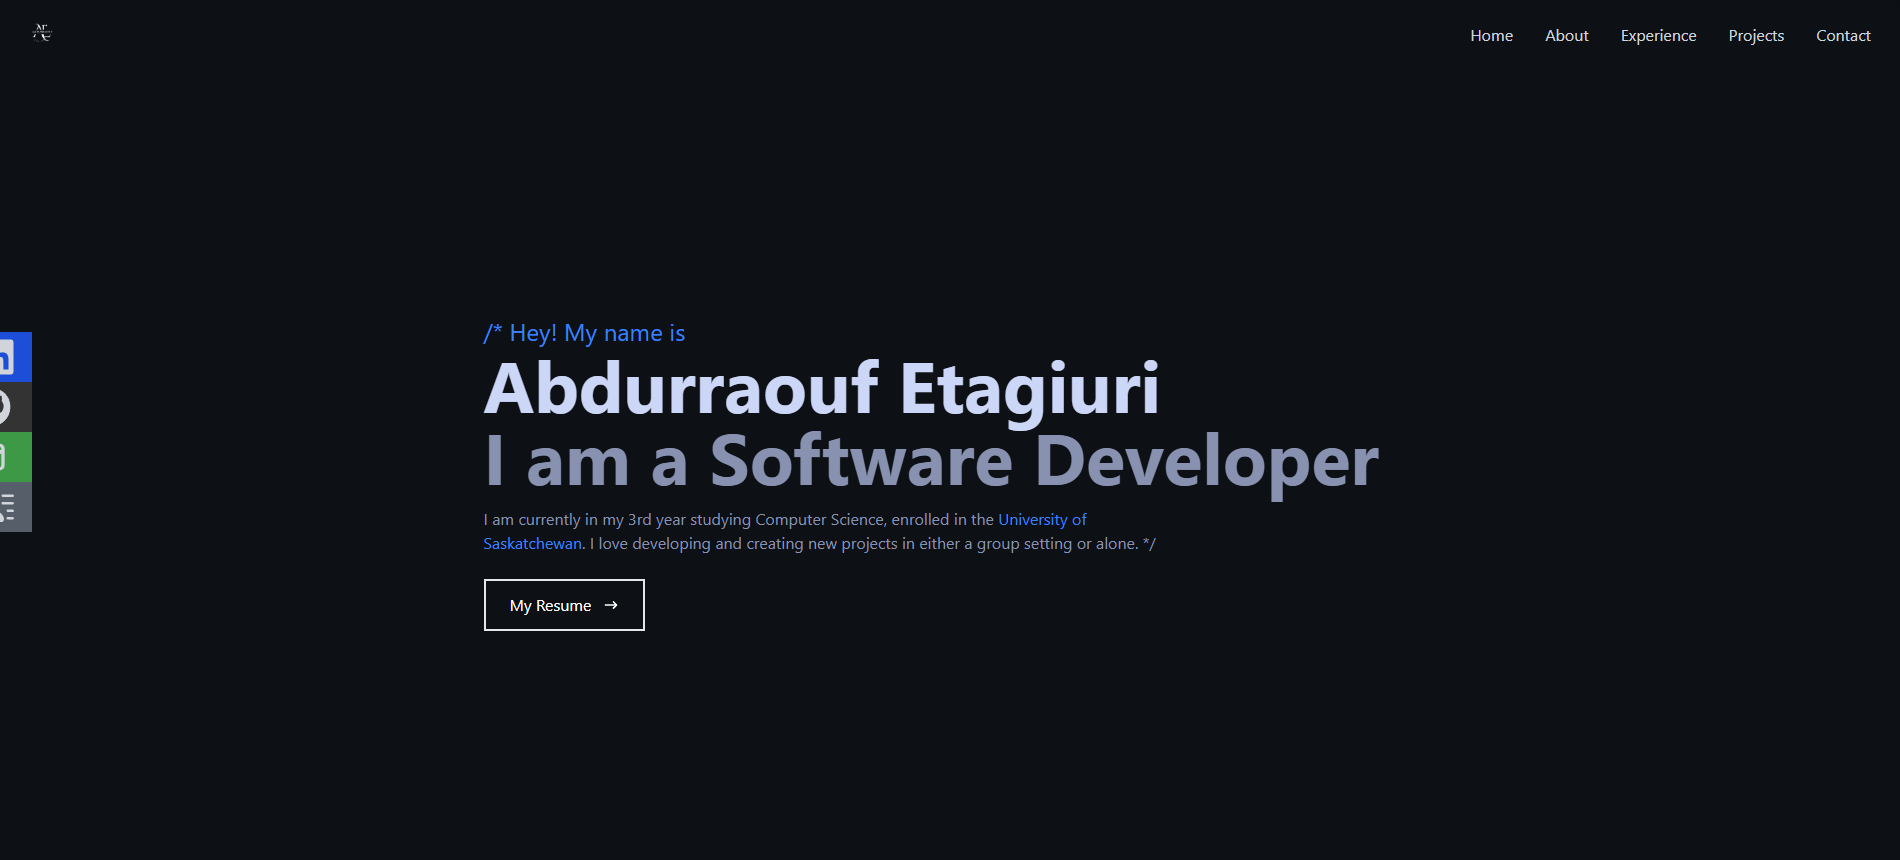
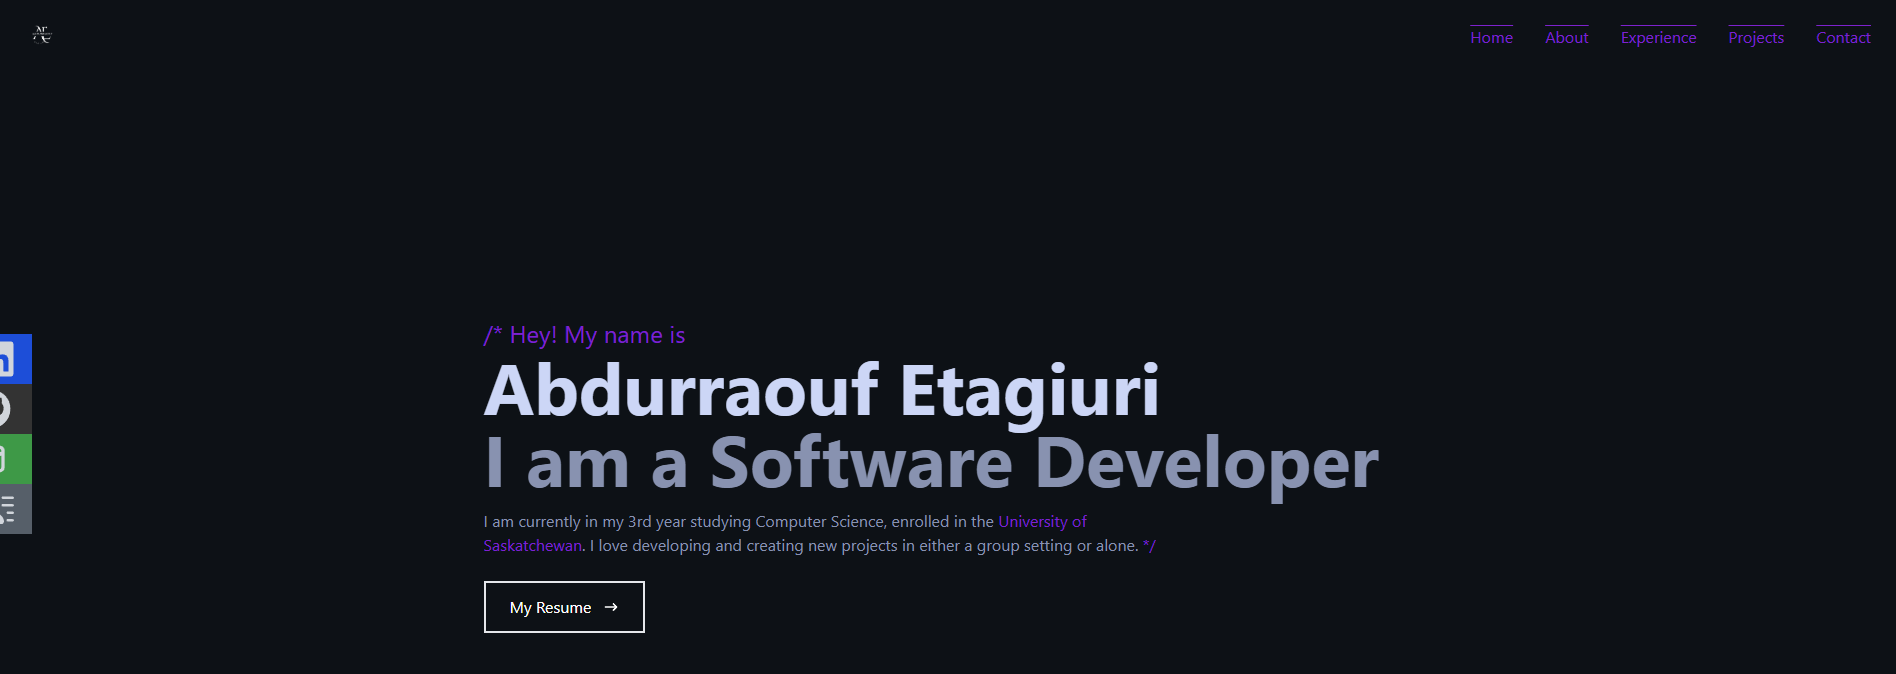
added changes

diff --git a/src/components/Projects.jsx b/src/components/Projects.jsx
@@ -5,7 +5,7 @@ import comingSoon from '../assets/Soon.png'
 
 const Projects = () => {
   return (
-    <div name='projects' className='space-y-10 w-full md:h-screen text-gray-300 bg-[#0D1116]'>
+    <div name='projects' className='pb-2 space-y-10 w-full md:h-screen text-gray-300 bg-[#0D1116]'>
         <div className='max-w-[1000px] mx-auto p-4 flex flex-col justify-center w-full h-full'>
             <div className='pb-8'>
                 <p className='text-4xl font-bold inline border-b-4 text-gray-300 border-purple-700'>Projects</p>
@@ -13,18 +13,17 @@ const Projects = () => {
             </div>
     
         {/* Container */}
-        <div className='space-y-10 text-center sm:grid-cols-2 md:grid-cols-3 gap-4 'src={portfolio}>
+
+        <div className='mb-8 pt-8 space-y-10 text-center sm:grid-cols-2 md:grid-cols-3 gap-4'src={portfolio}>
 
             {/* Card container */}
             <div style={{backgroundImage: `url(${portfolio})`}} className='transition ease-in-out delay-200 hover:-translate-y-1 hover:scale-110 duration-600  shadow-lg shadow-[rgb(126,34,206)] group container rounded-md flex justify-center items-cener mx-auto content-div'>
 
                 {/* Hover effect */}
-                <div className=' py-10 opacity-0 group-hover:opacity-100'>
-                    
+                <div className=' py-10 opacity-0 group-hover:opacity-100'>  
                     <span className='text-2xl font-bold text-white tracking-wider'>
                         My Portfolio
-                    </span>
-                    
+                    </span>  
                     <div className='pt-8 text-center items-center'>
                         <a href="https://abdurraoufe.github.io/abdurraouf/"> 
                             <button className='text-center rounded-lg px-4 py-3 m-2 bg-white text-gray-700 font-bold text-lg'>Demo</button>
@@ -32,75 +31,73 @@ const Projects = () => {
                         <a href="https://github.com/AbdurraoufE/abdurraouf"> 
                             <button className='text-center rounded-lg px-4 py-3 m-2 bg-white text-gray-700 font-bold text-lg'>Code</button>
                         </a>
-
                     </div>
                 </div>
             </div>
+
+            {/* Container */}
             <div style={{backgroundImage:`url(${LMS})`}} className='transition ease-in-out delay-200 hover:-translate-y-1 hover:scale-110 duration-600 shadow-lg shadow-[rgb(126,34,206)] group container rounded-md flex justify-center items-cener mx-auto content-div'>
 
             {/* Hover effect */}
-            <div className='py-10 opacity-0 group-hover:opacity-100'>
-                <span className=' text-center text-2xl font-bold text-white tracking-wider'>
-                Library Management System Group Project
-                </span>
-                <div className='pt-8 text-center'>
-                    <a href="https://docs.google.com/document/d/1wiCpxy3gPqjDNPYPfT0pRI3YbbiWDi8MJZs-Ot-8-5Y/edit?usp=sharing"> 
-                        <button className='text-center rounded-lg px-4 py-3 m-2 bg-white text-gray-700 font-bold text-lg'>Demo</button>
-                    </a>
-                    <a href="/"> 
-                        <button className='text-center rounded-lg px-4 py-3 m-2 bg-white text-gray-700 font-bold text-lg'>Code</button>
-                    </a>
-
-                        </div>
+                <div className='py-10 opacity-0 group-hover:opacity-100'>
+                    <span className=' text-center text-2xl font-bold text-white tracking-wider'>
+                    Library Management System Group Project
+                    </span>
+                    <div className='pt-8 text-center'>
+                        <a href="https://docs.google.com/document/d/1wiCpxy3gPqjDNPYPfT0pRI3YbbiWDi8MJZs-Ot-8-5Y/edit?usp=sharing"> 
+                            <button className='text-center rounded-lg px-4 py-3 m-2 bg-white text-gray-700 font-bold text-lg'>Demo</button>
+                        </a>
+                        <a href="/"> 
+                            <button className='text-center rounded-lg px-4 py-3 m-2 bg-white text-gray-700 font-bold text-lg'>Code</button>
+                        </a>
                     </div>
                 </div>
-        
-        
-        <div style={{backgroundImage:`url(${comingSoon})`}} className='transition ease-in-out delay-200 hover:-translate-y-1 hover:scale-110 duration-600 shadow-lg shadow-[rgb(126,34,206)] group container rounded-md flex justify-center items-cener mx-auto content-div'>
-
-            {/* Hover effect */}
-            <div className='py-10 opacity-0 group-hover:opacity-100'>
-                <span className='space-y-7  text-2xl font-bold text-white tracking-wider'>
-                    Coming Soon...
-                </span>
-                <div className='pt-8 text-center'>
-                    <a href="/"> 
-                        <button className='text-center rounded-lg px-4 py-3 m-2 bg-white text-gray-700 font-bold text-lg'>Demo</button>
-                    </a>
-                    <a href="/"> 
-                        <button className='text-center rounded-lg px-4 py-3 m-2 bg-white text-gray-700 font-bold text-lg'>Code</button>
-                    </a>
-
-                        </div>
-                    </div>
-                
-        </div>    
-
-
-        {/* NEW CODE HERE */}
-        <div style={{backgroundImage:`url(${comingSoon})`}} className='transition ease-in-out delay-200 hover:-translate-y-1 hover:scale-110 duration-600 shadow-lg shadow-[rgb(126,34,206)] group container rounded-md flex justify-center items-cener mx-auto content-div'>
-
-            {/* Hover effect */}
-            <div className='py-10 opacity-0 group-hover:opacity-100'>
-                <span className='space-y-7  text-2xl font-bold text-white tracking-wider'>
-                    Coming Soon...
-                </span>
-                <div className='pt-8 text-center'>
-                    <a href="/"> 
-                        <button className='text-center rounded-lg px-4 py-3 m-2 bg-white text-gray-700 font-bold text-lg'>Demo</button>
-                    </a>
-                    <a href="/"> 
-                        <button className='text-center rounded-lg px-4 py-3 m-2 bg-white text-gray-700 font-bold text-lg'>Code</button>
-                    </a>
-
-                        </div>
-                    </div>
-                
-        </div>    
-
             </div>
+        
+            {/* Container */}
+            <div style={{backgroundImage:`url(${comingSoon})`}} className='transition ease-in-out delay-200 hover:-translate-y-1 hover:scale-110 duration-600 shadow-lg shadow-[rgb(126,34,206)] group container rounded-md flex justify-center items-cener mx-auto content-div'>
+
+                {/* Hover effect */}
+                <div className='py-10 opacity-0 group-hover:opacity-100'>
+                    <span className='space-y-7  text-2xl font-bold text-white tracking-wider'>
+                        Coming Soon...
+                    </span>
+                    <div className='pt-8 text-center'>
+                        <a href="/"> 
+                            <button className='text-center rounded-lg px-4 py-3 m-2 bg-white text-gray-700 font-bold text-lg'>Demo</button>
+                        </a>
+                        <a href="/"> 
+                            <button className='text-center rounded-lg px-4 py-3 m-2 bg-white text-gray-700 font-bold text-lg'>Code</button>
+                        </a>
+                    </div>
+                </div>     
+            </div>    
+
+
+            {/* NEW CODE HERE */}
+            <div style={{backgroundImage:`url(${comingSoon})`}} className='transition ease-in-out delay-200 hover:-translate-y-1 hover:scale-110 duration-600 shadow-lg shadow-[rgb(126,34,206)] group container rounded-md flex justify-center items-cener mx-auto content-div'>
+
+                {/* Hover effect */}
+                <div className='py-10 opacity-0 group-hover:opacity-100'>
+                    <span className='space-y-7  text-2xl font-bold text-white tracking-wider'>
+                        Coming Soon...
+                    </span>
+                    <div className='pt-8 text-center'>
+                        <a href="/"> 
+                            <button className='text-center rounded-lg px-4 py-3 m-2 bg-white text-gray-700 font-bold text-lg'>Demo</button>
+                        </a>
+                        <a href="/"> 
+                            <button className='text-center rounded-lg px-4 py-3 m-2 bg-white text-gray-700 font-bold text-lg'>Code</button>
+                        </a>
+                    </div>
+                </div>   
+            </div>    
+            
+
+             
         </div>
-    </div>
+    </div>    
+</div>
   )
 }
 

diff --git a/src/components/Navbar.jsx b/src/components/Navbar.jsx
@@ -10,7 +10,7 @@ const Navbar = () => {
     const handleClick = () => setNav(!nav)
 
   return (
-    <div className='fixed w-full h-[80px] flex justify-between items-center px-4 bg-[#0D1116] text-purple-700 border-purple-700'>
+    <div className='fixed w-full h-[80px] flex justify-between items-center px-4 bg-[#0D1116] text-purple-700 overline '>
         <div>
             <button>
                 <a href='/'>
@@ -56,7 +56,7 @@ const Navbar = () => {
         {/* Mobile Menu */}
         <ul className={!nav ? 'hidden' : 'absolute top-0 left-0 w-full h-screen bg-[#0D1116] flex flex-col justify-center items-center'}>
             <li className='py-6 text-4xl'>
-            <Link onClick={handleClick} to="home" smooth={true} duration={500}>
+            <Link onClick={handleClick} to="home" smooth={true} duration={500} className='underline-purple-700'>
                 Home
                 </Link>
             </li>

diff --git a/src/components/Experience.jsx b/src/components/Experience.jsx
@@ -17,7 +17,7 @@ const Experience = () => {
                 <p className='text-4xl font-bold inline border-b-4 border-purple-700'>Experience</p>
                 <p className='py-4'>// These are some of the technologies I have worked with</p>
             </div>
-
+        <div>
             <div className='w-full grid grid-cols-2 sm:grid-cols-4 gap-4 text-center py-8'>
                 <div className='shadow-md hover:shadow-[rgb(126,34,206)] hover:scale-110 duration-500 '>
                     <img className='w-20 mx-auto' src={Java} alt="HTML icon"/>
@@ -54,6 +54,7 @@ const Experience = () => {
 
             </div>
         </div>
+    </div>
 
     </div>
   )

diff --git a/src/components/Contact.jsx b/src/components/Contact.jsx
@@ -31,7 +31,7 @@ import React from 'react'
 // export default Contact
 
 const Contact = () => {
-  return(
+  return( 
     <div name= "contact" className='w-full h-screen bg-[#0D1116] text-gray-300'>
       <div className='max-w-[1000px] mx-auto p-4 flex flex-col justify-center w-full h-full'>
         {/* Info for the top part of contact */}
